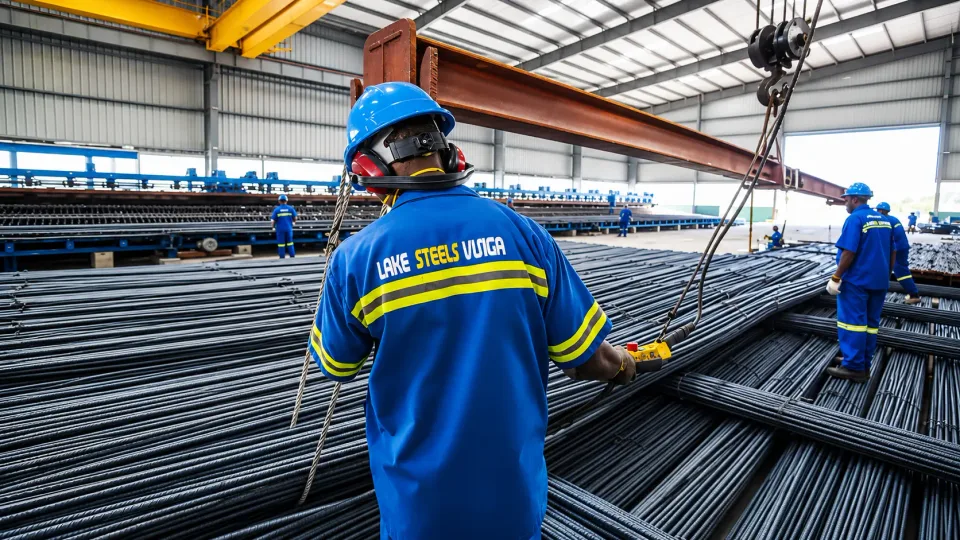
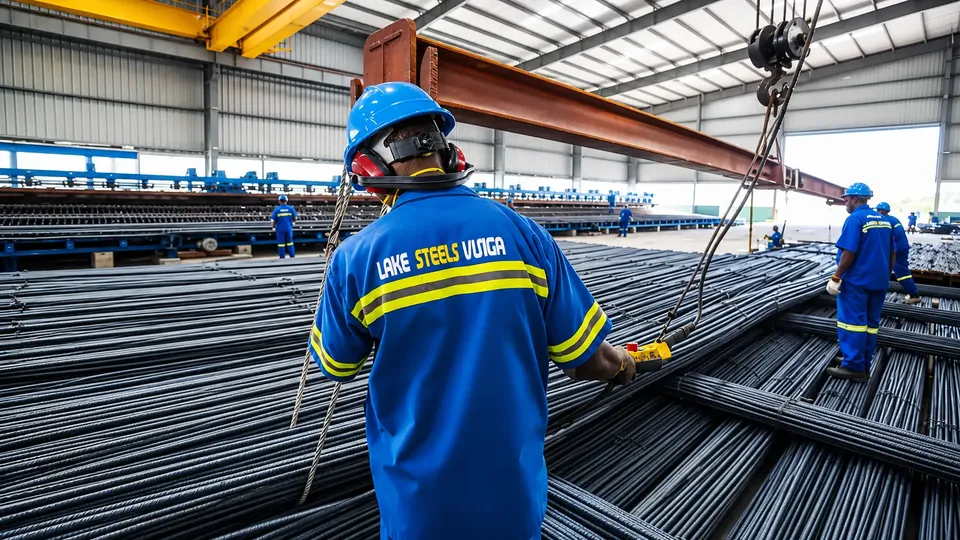
perf(site): optimize loading for slow networks
Convert all 15 company hero images from CSS background-image to
responsive <picture> elements with mobile-optimized srcset variants.
Defer non-critical CSS (assistant, split-text) on 18 pages. Add
display:block to hero-media for proper picture rendering.

🤖 Generated with Codebuff

diff --git a/lake-cylinders.html b/lake-cylinders.html
@@ -178,8 +178,8 @@ body[data-company-logo*="lake-cylinders"] .page-hero .hero-media{
   <link rel="preload" href="assets/fonts/files/jost-latin-ext-700-normal.woff2" as="font" type="font/woff2" crossorigin />
 <link rel="stylesheet" href="assets/flagship.css?v=20260828-01">
   <link rel="stylesheet" href="assets/company-page-standard.css">
-<link rel="stylesheet" href="assets/split-text.css?v=20260828-01">
-  <link rel="stylesheet" href="assets/assistant.css?v=20260828-01">
+<link rel="stylesheet" href="assets/split-text.css?v=20260828-01" media="print" onload="this.media='all'">
+  <link rel="stylesheet" href="assets/assistant.css?v=20260828-01" media="print" onload="this.media='all'">
   <link rel="stylesheet" href="assets/skeleton.css?v=20260830-02">
   <meta http-equiv="Content-Security-Policy" content="default-src 'self'; script-src 'self' 'unsafe-inline'; script-src-attr 'none'; style-src 'self' 'unsafe-inline'; img-src 'self' data: blob: https:; font-src 'self' data:; connect-src 'self' https:; frame-src https://www.youtube.com https://www.youtube-nocookie.com; worker-src 'self'; manifest-src 'self'; media-src 'self' https:; object-src 'none'; base-uri 'self'; form-action 'self'; upgrade-insecure-requests">
   <link rel="stylesheet" href="assets/phase-01-navbar.css?v=20260828-01">
@@ -261,7 +261,7 @@ body[data-company-logo*="lake-cylinders"] .page-hero .hero-media{
 
 <div class="page-wrapper">
 <section class="page-hero">
-  <div class="hero-media" style="background-image:url('assets/images/lakegas/ops/cylinder-hero.webp');background-position:center 35%" aria-hidden="true"></div>
+  <picture class="hero-media" aria-hidden="true"><source srcset="assets/images/lakegas/ops/cylinder-hero-800.webp" media="(max-width:768px)"><img src="assets/images/lakegas/ops/cylinder-hero.webp" alt="" width="1920" height="1080" fetchpriority="high" decoding="async" loading="eager" style="width:100%;height:100%;object-fit:cover;object-position:center 35%"></picture>
   <div class="hero-overlay" aria-hidden="true"></div>
   <div class="container">
 <div class="eyebrow">Manufacturing</div><h1>Lake Cylinders</h1><p>A specialized LPG cylinder manufacturing company, part of the Lake Group, established to support the growing demand for safe, reliable and high-quality LPG solutions in Tanzania and the wider East African market.</p>

diff --git a/cross-country.html b/cross-country.html
@@ -164,8 +164,8 @@ body[data-company-logo*="cross-country"] .page-hero .hero-media{background-posit
   <link rel="preload" href="assets/fonts/files/jost-latin-ext-700-normal.woff2" as="font" type="font/woff2" crossorigin />
 <link rel="stylesheet" href="assets/flagship.css?v=20260828-01">
   <link rel="stylesheet" href="assets/company-page-standard.css">
-<link rel="stylesheet" href="assets/split-text.css?v=20260828-01">
-  <link rel="stylesheet" href="assets/assistant.css?v=20260828-01">
+<link rel="stylesheet" href="assets/split-text.css?v=20260828-01" media="print" onload="this.media='all'">
+  <link rel="stylesheet" href="assets/assistant.css?v=20260828-01" media="print" onload="this.media='all'">
   <link rel="stylesheet" href="assets/skeleton.css?v=20260830-02">
   <meta http-equiv="Content-Security-Policy" content="default-src 'self'; script-src 'self' 'unsafe-inline'; script-src-attr 'none'; style-src 'self' 'unsafe-inline'; img-src 'self' data: blob: https:; font-src 'self' data:; connect-src 'self' https:; frame-src https://www.youtube.com https://www.youtube-nocookie.com; worker-src 'self'; manifest-src 'self'; media-src 'self' https:; object-src 'none'; base-uri 'self'; form-action 'self'; upgrade-insecure-requests">
   <link rel="stylesheet" href="assets/phase-01-navbar.css?v=20260828-01">
@@ -247,7 +247,7 @@ body[data-company-logo*="cross-country"] .page-hero .hero-media{background-posit
 
 <div class="page-wrapper">
 <section class="page-hero">
-  <div class="hero-media" style="background-image:url('assets/images/cross-country/cross-country-hero.webp')" aria-hidden="true"></div>
+  <picture class="hero-media" aria-hidden="true"><source srcset="assets/images/cross-country/cross-country-hero-960.webp" media="(max-width:768px)"><img src="assets/images/cross-country/cross-country-hero.webp" alt="" width="1920" height="1080" fetchpriority="high" decoding="async" loading="eager" style="width:100%;height:100%;object-fit:cover"></picture>
   <div class="hero-overlay" aria-hidden="true"></div>
   <div class="container">
 <div class="eyebrow">Real Estate</div><h1>Cross Country</h1><p>Lake Group's real estate development company, established in 2021 to develop and manage commercial, retail, hospitality and mixed-use properties across Tanzania.</p>

diff --git a/aill.html b/aill.html
@@ -131,8 +131,8 @@
   <link rel="preload" href="assets/fonts/files/jost-latin-ext-700-normal.woff2" as="font" type="font/woff2" crossorigin />
 <link rel="stylesheet" href="assets/flagship.css?v=20260828-01">
   <link rel="stylesheet" href="assets/company-page-standard.css">
-<link rel="stylesheet" href="assets/split-text.css?v=20260828-01">
-  <link rel="stylesheet" href="assets/assistant.css?v=20260828-01">
+<link rel="stylesheet" href="assets/split-text.css?v=20260828-01" media="print" onload="this.media='all'">
+  <link rel="stylesheet" href="assets/assistant.css?v=20260828-01" media="print" onload="this.media='all'">
   <link rel="stylesheet" href="assets/skeleton.css?v=20260830-02">
   <meta http-equiv="Content-Security-Policy" content="default-src 'self'; script-src 'self' 'unsafe-inline'; script-src-attr 'none'; style-src 'self' 'unsafe-inline'; img-src 'self' data: blob: https:; font-src 'self' data:; connect-src 'self' https: http://127.0.0.1:*; frame-src https://www.youtube.com https://www.youtube-nocookie.com; worker-src 'self'; manifest-src 'self'; media-src 'self' https:; object-src 'none'; base-uri 'self'; form-action 'self' https:; upgrade-insecure-requests">
   <link rel="stylesheet" href="assets/phase-01-navbar.css?v=20260828-01">
@@ -214,7 +214,7 @@
 
 <div class="page-wrapper">
 <section class="page-hero">
-  <div class="hero-media" style="background-image:url('assets/images/home/verticals/logistics.webp')" aria-hidden="true"></div>
+  <picture class="hero-media" aria-hidden="true"><source srcset="assets/images/home/verticals/logistics-960.webp" media="(max-width:768px)"><img src="assets/images/home/verticals/logistics.webp" alt="" width="1536" height="1024" fetchpriority="high" decoding="async" loading="eager" style="width:100%;height:100%;object-fit:cover"></picture>
   <div class="hero-overlay" aria-hidden="true"></div>
   <div class="container">
 <div class="eyebrow">Logistics</div><h1>AILL . African Inland Logistics</h1><p>Port handling, warehousing, bagging, customs clearance and logistics solutions for bulk, break-bulk and containerized cargo.</p><p style="margin-top:10px;color:rgba(255,255,255,.92);font-weight:600;letter-spacing:.02em">Moving Cargo. Connecting Markets. Delivering End-to-End Logistics Solutions.</p>

diff --git a/lake-pipes.html b/lake-pipes.html
@@ -165,8 +165,8 @@
   <link rel="preload" href="assets/fonts/files/jost-latin-ext-700-normal.woff2" as="font" type="font/woff2" crossorigin />
 <link rel="stylesheet" href="assets/flagship.css?v=20260828-01">
   <link rel="stylesheet" href="assets/company-page-standard.css">
-<link rel="stylesheet" href="assets/split-text.css?v=20260828-01">
-  <link rel="stylesheet" href="assets/assistant.css?v=20260828-01">
+<link rel="stylesheet" href="assets/split-text.css?v=20260828-01" media="print" onload="this.media='all'">
+  <link rel="stylesheet" href="assets/assistant.css?v=20260828-01" media="print" onload="this.media='all'">
   <link rel="stylesheet" href="assets/skeleton.css?v=20260830-02">
   <meta http-equiv="Content-Security-Policy" content="default-src 'self'; script-src 'self' 'unsafe-inline'; script-src-attr 'none'; style-src 'self' 'unsafe-inline'; img-src 'self' data: blob: https:; font-src 'self' data:; connect-src 'self' https:; frame-src https://www.youtube.com https://www.youtube-nocookie.com; worker-src 'self'; manifest-src 'self'; media-src 'self' https:; object-src 'none'; base-uri 'self'; form-action 'self'; upgrade-insecure-requests">
   <link rel="stylesheet" href="assets/phase-01-navbar.css?v=20260828-01">
@@ -248,7 +248,7 @@
 
 <div class="page-wrapper">
 <section class="page-hero">
-  <div class="hero-media" style="background-image:url('assets/images/lakepipes/hero/lake-pipes-hero.webp');background-position:center 35%" aria-hidden="true"></div>
+  <picture class="hero-media" aria-hidden="true"><source srcset="assets/images/lakepipes/hero/lake-pipes-hero-800.webp" media="(max-width:768px)"><img src="assets/images/lakepipes/hero/lake-pipes-hero.webp" alt="" width="1920" height="1080" fetchpriority="high" decoding="async" loading="eager" style="width:100%;height:100%;object-fit:cover;object-position:center 35%"></picture>
   <div class="hero-overlay" aria-hidden="true"></div>
   <div class="container">
 <div class="eyebrow">Lake Group &middot; Est. 2019</div><h1>Lake Pipes</h1><p>Manufacturing and distributing quality pipes, water tanks and fittings for water management, irrigation, distribution and sewage systems.</p>

diff --git a/lake-aviation.html b/lake-aviation.html
@@ -154,8 +154,8 @@
   <link rel="preload" href="assets/fonts/files/jost-latin-ext-700-normal.woff2" as="font" type="font/woff2" crossorigin />
 <link rel="stylesheet" href="assets/flagship.css?v=20260828-01">
   <link rel="stylesheet" href="assets/company-page-standard.css">
-<link rel="stylesheet" href="assets/split-text.css?v=20260828-01">
-  <link rel="stylesheet" href="assets/assistant.css?v=20260828-01">
+<link rel="stylesheet" href="assets/split-text.css?v=20260828-01" media="print" onload="this.media='all'">
+  <link rel="stylesheet" href="assets/assistant.css?v=20260828-01" media="print" onload="this.media='all'">
   <link rel="stylesheet" href="assets/skeleton.css?v=20260830-02">
   <meta http-equiv="Content-Security-Policy" content="default-src 'self'; script-src 'self' 'unsafe-inline'; script-src-attr 'none'; style-src 'self' 'unsafe-inline'; img-src 'self' data: blob: https:; font-src 'self' data:; connect-src 'self' https:; frame-src https://www.youtube.com https://www.youtube-nocookie.com; worker-src 'self'; manifest-src 'self'; media-src 'self' https:; object-src 'none'; base-uri 'self'; form-action 'self'; upgrade-insecure-requests">
   <link rel="stylesheet" href="assets/phase-01-navbar.css?v=20260828-01">
@@ -237,7 +237,7 @@
 
 <div class="page-wrapper">
 <section class="page-hero">
-  <div class="hero-media" style="background-image:url('assets/images/lake-aviation/ops/lake-aviation-hero.webp');background-position:center 40%" aria-hidden="true"></div>
+  <picture class="hero-media" aria-hidden="true"><source srcset="assets/images/lake-aviation/ops/lake-aviation-hero-800.webp" media="(max-width:768px)"><img src="assets/images/lake-aviation/ops/lake-aviation-hero.webp" alt="" width="1920" height="1080" fetchpriority="high" decoding="async" loading="eager" style="width:100%;height:100%;object-fit:cover;object-position:center 40%"></picture>
   <div class="hero-overlay" aria-hidden="true"></div>
   <div class="container">
 <div class="eyebrow">Lake Energies · Est. 2020</div><h1>Lake Aviation</h1><p>Specialized aviation fuel supply and into-plane fueling services across Tanzania and Uganda.</p>

diff --git a/lake-gas.html b/lake-gas.html
@@ -188,8 +188,8 @@ body[data-company-logo="assets/images/logos/companies/lake-gas.png"] .fs-split-e
   <link rel="preload" href="assets/fonts/files/jost-latin-ext-700-normal.woff2" as="font" type="font/woff2" crossorigin />
 <link rel="stylesheet" href="assets/flagship.css?v=20260828-01">
   <link rel="stylesheet" href="assets/company-page-standard.css">
-  <link rel="stylesheet" href="assets/split-text.css?v=20260828-01">
-  <link rel="stylesheet" href="assets/assistant.css?v=20260828-01">
+  <link rel="stylesheet" href="assets/split-text.css?v=20260828-01" media="print" onload="this.media='all'">
+  <link rel="stylesheet" href="assets/assistant.css?v=20260828-01" media="print" onload="this.media='all'">
   <link rel="stylesheet" href="assets/skeleton.css?v=20260830-02">
   <meta http-equiv="Content-Security-Policy" content="default-src 'self'; script-src 'self' 'unsafe-inline'; script-src-attr 'none'; style-src 'self' 'unsafe-inline'; img-src 'self' data: blob: https:; font-src 'self' data:; connect-src 'self' https:; frame-src https://www.youtube.com https://www.youtube-nocookie.com; worker-src 'self'; manifest-src 'self'; media-src 'self' https:; object-src 'none'; base-uri 'self'; form-action 'self'; upgrade-insecure-requests">
   <link rel="stylesheet" href="assets/phase-01-navbar.css?v=20260828-01">
@@ -271,7 +271,7 @@ body[data-company-logo="assets/images/logos/companies/lake-gas.png"] .fs-split-e
 
 <div class="page-wrapper">
 <section class="page-hero">
-  <div class="hero-media" style="background-image:url('assets/images/lakegas/ops/lake-gas-lpg-filling-line.webp')" aria-hidden="true"></div>
+  <picture class="hero-media" aria-hidden="true"><source srcset="assets/images/lakegas/ops/lake-gas-lpg-filling-line-800.webp" media="(max-width:768px)"><img src="assets/images/lakegas/ops/lake-gas-lpg-filling-line.webp" alt="" width="1920" height="1080" fetchpriority="high" decoding="async" loading="eager" style="width:100%;height:100%;object-fit:cover"></picture>
   <div class="hero-overlay" aria-hidden="true"></div>
   <div class="container">
 <div class="eyebrow">Lake Gas</div>

diff --git a/lake-lubes.html b/lake-lubes.html
@@ -143,8 +143,8 @@ body[data-company-logo] .page-hero.lubes-hero .hero-overlay{background:linear-gr
   <link rel="preload" href="assets/fonts/files/jost-latin-ext-700-normal.woff2" as="font" type="font/woff2" crossorigin />
 <link rel="stylesheet" href="assets/flagship.css?v=20260828-01">
   <link rel="stylesheet" href="assets/company-page-standard.css">
-<link rel="stylesheet" href="assets/split-text.css?v=20260828-01">
-  <link rel="stylesheet" href="assets/assistant.css?v=20260828-01">
+<link rel="stylesheet" href="assets/split-text.css?v=20260828-01" media="print" onload="this.media='all'">
+  <link rel="stylesheet" href="assets/assistant.css?v=20260828-01" media="print" onload="this.media='all'">
   <link rel="stylesheet" href="assets/skeleton.css?v=20260830-02">
   <meta http-equiv="Content-Security-Policy" content="default-src 'self'; script-src 'self' 'unsafe-inline'; script-src-attr 'none'; style-src 'self' 'unsafe-inline'; img-src 'self' data: blob: https:; font-src 'self' data:; connect-src 'self' https:; frame-src https://www.youtube.com https://www.youtube-nocookie.com; worker-src 'self'; manifest-src 'self'; media-src 'self' https:; object-src 'none'; base-uri 'self'; form-action 'self'; upgrade-insecure-requests">
   <link rel="stylesheet" href="assets/phase-01-navbar.css?v=20260828-01">
@@ -226,7 +226,7 @@ body[data-company-logo] .page-hero.lubes-hero .hero-overlay{background:linear-gr
 
 <div class="page-wrapper">
 <section class="page-hero lubes-hero">
-  <div class="hero-media" style="background-image:url('assets/images/lakelubes/ops/plant.jpg?v=20260828-01')" aria-hidden="true"></div>
+  <picture class="hero-media" aria-hidden="true"><source srcset="assets/images/lakelubes/ops/plant-800.webp" media="(max-width:768px)"><img src="assets/images/lakelubes/ops/plant.jpg?v=20260828-01" alt="" width="1920" height="1080" fetchpriority="high" decoding="async" loading="eager" style="width:100%;height:100%;object-fit:cover"></picture>
   <div class="hero-overlay" aria-hidden="true"></div>
   <div class="container">
 <div class="eyebrow">Lake Lubes Ltd. · Est. 2016</div>

diff --git a/lake-oil.html b/lake-oil.html
@@ -139,8 +139,8 @@ body[data-company-logo] .lake-intro .fs-lede{text-align:left}
   <link rel="preload" href="assets/fonts/files/jost-latin-ext-700-normal.woff2" as="font" type="font/woff2" crossorigin />
 <link rel="stylesheet" href="assets/flagship.css?v=20260828-01">
   <link rel="stylesheet" href="assets/company-page-standard.css">
-<link rel="stylesheet" href="assets/split-text.css?v=20260828-01">
-  <link rel="stylesheet" href="assets/assistant.css?v=20260828-01">
+<link rel="stylesheet" href="assets/split-text.css?v=20260828-01" media="print" onload="this.media='all'">
+  <link rel="stylesheet" href="assets/assistant.css?v=20260828-01" media="print" onload="this.media='all'">
   <link rel="stylesheet" href="assets/skeleton.css?v=20260830-02">
   <meta http-equiv="Content-Security-Policy" content="default-src 'self'; script-src 'self' 'unsafe-inline'; script-src-attr 'none'; style-src 'self' 'unsafe-inline'; img-src 'self' data: blob: https:; font-src 'self' data:; connect-src 'self' https:; frame-src https://www.youtube.com https://www.youtube-nocookie.com https://www.google.com; worker-src 'self'; manifest-src 'self'; media-src 'self' https:; object-src 'none'; base-uri 'self'; form-action 'self'; upgrade-insecure-requests">
   <link rel="stylesheet" href="assets/phase-01-navbar.css?v=20260828-01">
@@ -222,7 +222,7 @@ body[data-company-logo] .lake-intro .fs-lede{text-align:left}
 
 <div class="page-wrapper">
 <section class="page-hero">
-  <div class="hero-media" style="background-image:url('assets/images/lakeoil/hero/lake-oil-hero.webp');object-position:center 40%" aria-hidden="true"></div>
+  <picture class="hero-media" aria-hidden="true"><source srcset="assets/images/lakeoil/hero/lake-oil-hero-800.webp" media="(max-width:768px)"><img src="assets/images/lakeoil/hero/lake-oil-hero.webp" alt="" width="1920" height="1080" fetchpriority="high" decoding="async" loading="eager" style="width:100%;height:100%;object-fit:cover;object-position:center 40%"></picture>
   <div class="hero-overlay" aria-hidden="true"></div>
   <div class="container">
     

diff --git a/gulf-aggregates.html b/gulf-aggregates.html
@@ -162,8 +162,8 @@
   <link rel="preload" href="assets/fonts/files/jost-latin-ext-700-normal.woff2" as="font" type="font/woff2" crossorigin />
 <link rel="stylesheet" href="assets/flagship.css?v=20260828-01">
   <link rel="stylesheet" href="assets/company-page-standard.css">
-<link rel="stylesheet" href="assets/split-text.css?v=20260828-01">
-  <link rel="stylesheet" href="assets/assistant.css?v=20260828-01">
+<link rel="stylesheet" href="assets/split-text.css?v=20260828-01" media="print" onload="this.media='all'">
+  <link rel="stylesheet" href="assets/assistant.css?v=20260828-01" media="print" onload="this.media='all'">
   <link rel="stylesheet" href="assets/skeleton.css?v=20260830-02">
   <meta http-equiv="Content-Security-Policy" content="default-src 'self'; script-src 'self' 'unsafe-inline'; script-src-attr 'none'; style-src 'self' 'unsafe-inline'; img-src 'self' data: blob: https:; font-src 'self' data:; connect-src 'self' https:; frame-src https://www.youtube.com https://www.youtube-nocookie.com; worker-src 'self'; manifest-src 'self'; media-src 'self' https:; object-src 'none'; base-uri 'self'; form-action 'self'; upgrade-insecure-requests">
   <link rel="stylesheet" href="assets/phase-01-navbar.css?v=20260828-01">
@@ -245,7 +245,7 @@
 
 <div class="page-wrapper">
 <section class="page-hero">
-  <div class="hero-media" style="background-image:url('assets/images/gulf-aggregates/hero/gulf-aggregates-hero.webp');background-position:center 45%" aria-hidden="true"></div>
+  <picture class="hero-media" aria-hidden="true"><source srcset="assets/images/gulf-aggregates/hero/gulf-aggregates-hero-960.webp" media="(max-width:768px)"><img src="assets/images/gulf-aggregates/hero/gulf-aggregates-hero.webp" alt="" width="1920" height="1080" fetchpriority="high" decoding="async" loading="eager" style="width:100%;height:100%;object-fit:cover;object-position:center 45%"></picture>
   <div class="hero-overlay" aria-hidden="true"></div>
   <div class="container">
 <div class="eyebrow">Gulf Aggregates</div>

diff --git a/lake-trans.html b/lake-trans.html
@@ -167,8 +167,8 @@
   <link rel="preload" href="assets/fonts/files/jost-latin-ext-700-normal.woff2" as="font" type="font/woff2" crossorigin />
 <link rel="stylesheet" href="assets/flagship.css?v=20260828-01">
   <link rel="stylesheet" href="assets/company-page-standard.css">
-<link rel="stylesheet" href="assets/split-text.css?v=20260828-01">
-  <link rel="stylesheet" href="assets/assistant.css?v=20260828-01">
+<link rel="stylesheet" href="assets/split-text.css?v=20260828-01" media="print" onload="this.media='all'">
+  <link rel="stylesheet" href="assets/assistant.css?v=20260828-01" media="print" onload="this.media='all'">
   <link rel="stylesheet" href="assets/skeleton.css?v=20260830-02">
   <meta http-equiv="Content-Security-Policy" content="default-src 'self'; script-src 'self' 'unsafe-inline'; script-src-attr 'none'; style-src 'self' 'unsafe-inline'; img-src 'self' data: blob: https:; font-src 'self' data:; connect-src 'self' https:; frame-src https://www.youtube.com https://www.youtube-nocookie.com; worker-src 'self'; manifest-src 'self'; media-src 'self' https:; object-src 'none'; base-uri 'self'; form-action 'self'; upgrade-insecure-requests">
   <link rel="stylesheet" href="assets/phase-01-navbar.css?v=20260828-01">
@@ -250,7 +250,7 @@
 
 <div class="page-wrapper">
 <section class="page-hero">
-  <div class="hero-media" style="background-image:url('assets/images/laketrans/hero/lake-trans-fleet-hero.webp');object-position:center 40%" aria-hidden="true"></div>
+  <picture class="hero-media" aria-hidden="true"><source srcset="assets/images/laketrans/hero/lake-trans-fleet-hero-800.webp" media="(max-width:768px)"><img src="assets/images/laketrans/hero/lake-trans-fleet-hero.webp" alt="" width="1920" height="1080" fetchpriority="high" decoding="async" loading="eager" style="width:100%;height:100%;object-fit:cover;object-position:center 40%"></picture>
   <div class="hero-overlay" aria-hidden="true"></div>
   <div class="container">
 <div class="eyebrow">Lake Trans Limited</div>

diff --git a/lake-agro.html b/lake-agro.html
@@ -329,8 +329,8 @@ body.co-theme-agro .aramco-card p {
   <link rel="preload" href="assets/fonts/files/jost-latin-ext-700-normal.woff2" as="font" type="font/woff2" crossorigin />
 <link rel="stylesheet" href="assets/flagship.css?v=20260828-01">
   <link rel="stylesheet" href="assets/company-page-standard.css">
-<link rel="stylesheet" href="assets/split-text.css?v=20260828-01">
-  <link rel="stylesheet" href="assets/assistant.css?v=20260828-01">
+<link rel="stylesheet" href="assets/split-text.css?v=20260828-01" media="print" onload="this.media='all'">
+  <link rel="stylesheet" href="assets/assistant.css?v=20260828-01" media="print" onload="this.media='all'">
   <link rel="stylesheet" href="assets/skeleton.css?v=20260830-02">
   <meta http-equiv="Content-Security-Policy" content="default-src 'self'; script-src 'self' 'unsafe-inline'; script-src-attr 'none'; style-src 'self' 'unsafe-inline'; img-src 'self' data: blob: https:; font-src 'self' data:; connect-src 'self' https:; frame-src https://www.youtube.com https://www.youtube-nocookie.com; worker-src 'self'; manifest-src 'self'; media-src 'self' https:; object-src 'none'; base-uri 'self'; form-action 'self'; upgrade-insecure-requests">
   <link rel="stylesheet" href="assets/phase-01-navbar.css?v=20260828-01">
@@ -412,7 +412,7 @@ body.co-theme-agro .aramco-card p {
 
 <div class="page-wrapper">
 <section class="page-hero">
-  <div class="hero-media" style="background-image:url('assets/images/lake-agro/slid1.webp')" aria-hidden="true"></div>
+  <picture class="hero-media" aria-hidden="true"><source srcset="assets/images/lake-agro/slid1-960.webp" media="(max-width:768px)"><img src="assets/images/lake-agro/slid1.webp" alt="" width="1920" height="1080" fetchpriority="high" decoding="async" loading="eager" style="width:100%;height:100%;object-fit:cover"></picture>
   <div class="hero-overlay" aria-hidden="true"></div>
   <div class="container">
 <div class="eyebrow" data-i18n="agro.hero.eyebrow">Lake Agro · Rufiji, Tanzania</div>

diff --git a/lake-premix-cement.html b/lake-premix-cement.html
@@ -162,8 +162,8 @@
   <link rel="preload" href="assets/fonts/files/jost-latin-ext-700-normal.woff2" as="font" type="font/woff2" crossorigin />
 <link rel="stylesheet" href="assets/flagship.css?v=20260828-01">
   <link rel="stylesheet" href="assets/company-page-standard.css">
-<link rel="stylesheet" href="assets/split-text.css?v=20260828-01">
-  <link rel="stylesheet" href="assets/assistant.css?v=20260828-01">
+<link rel="stylesheet" href="assets/split-text.css?v=20260828-01" media="print" onload="this.media='all'">
+  <link rel="stylesheet" href="assets/assistant.css?v=20260828-01" media="print" onload="this.media='all'">
   <link rel="stylesheet" href="assets/skeleton.css?v=20260830-02">
   <meta http-equiv="Content-Security-Policy" content="default-src 'self'; script-src 'self' 'unsafe-inline'; script-src-attr 'none'; style-src 'self' 'unsafe-inline'; img-src 'self' data: blob: https:; font-src 'self' data:; connect-src 'self' https:; frame-src https://www.youtube.com https://www.youtube-nocookie.com; worker-src 'self'; manifest-src 'self'; media-src 'self' https:; object-src 'none'; base-uri 'self'; form-action 'self'; upgrade-insecure-requests">
   <link rel="stylesheet" href="assets/phase-01-navbar.css?v=20260828-01">
@@ -245,7 +245,7 @@
 
 <div class="page-wrapper">
 <section class="page-hero">
-  <div class="hero-media" style="background-image:url('assets/images/lakebuilding/hero/building-factory-hero.webp')" aria-hidden="true"></div>
+  <picture class="hero-media" aria-hidden="true"><source srcset="assets/images/lakebuilding/hero/building-factory-hero-800.webp" media="(max-width:768px)"><img src="assets/images/lakebuilding/hero/building-factory-hero.webp" alt="" width="1920" height="1080" fetchpriority="high" decoding="async" loading="eager" style="width:100%;height:100%;object-fit:cover"></picture>
   <div class="hero-overlay" aria-hidden="true"></div>
   <div class="container">
 <div class="eyebrow">Manufacturing</div>
